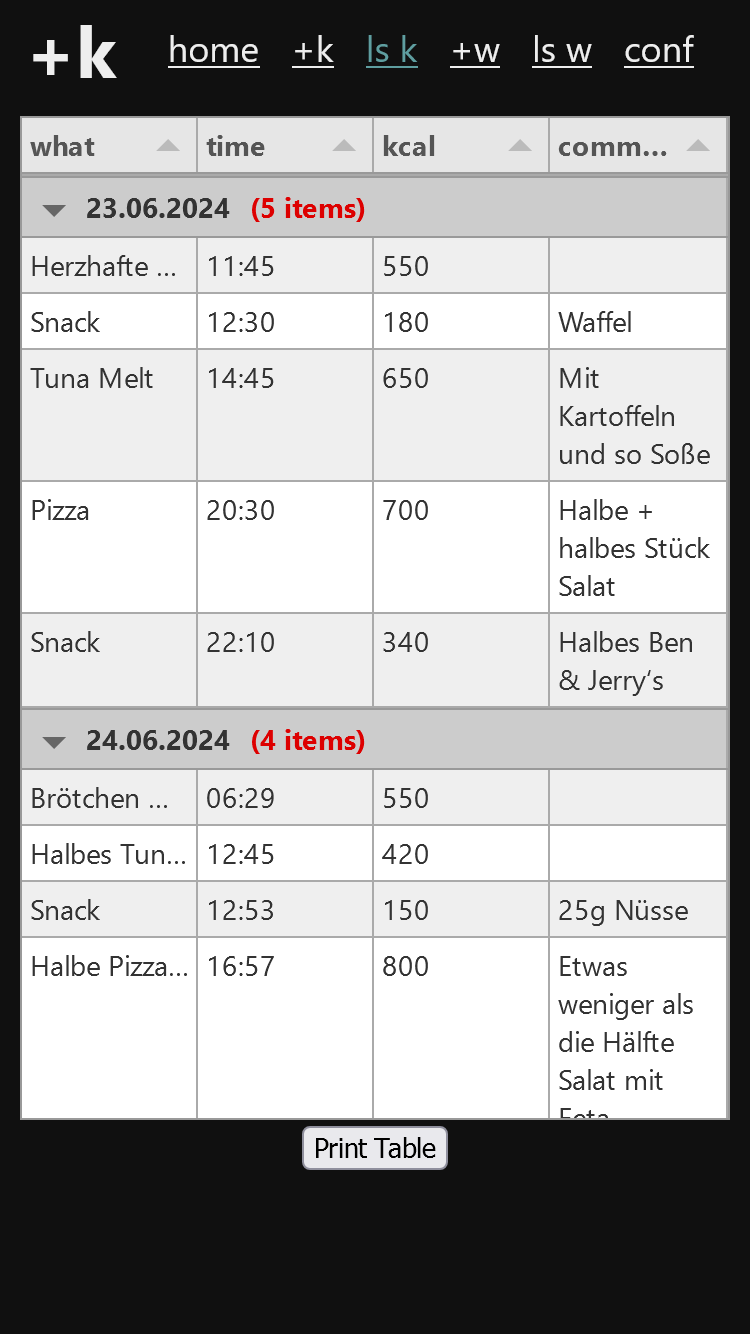
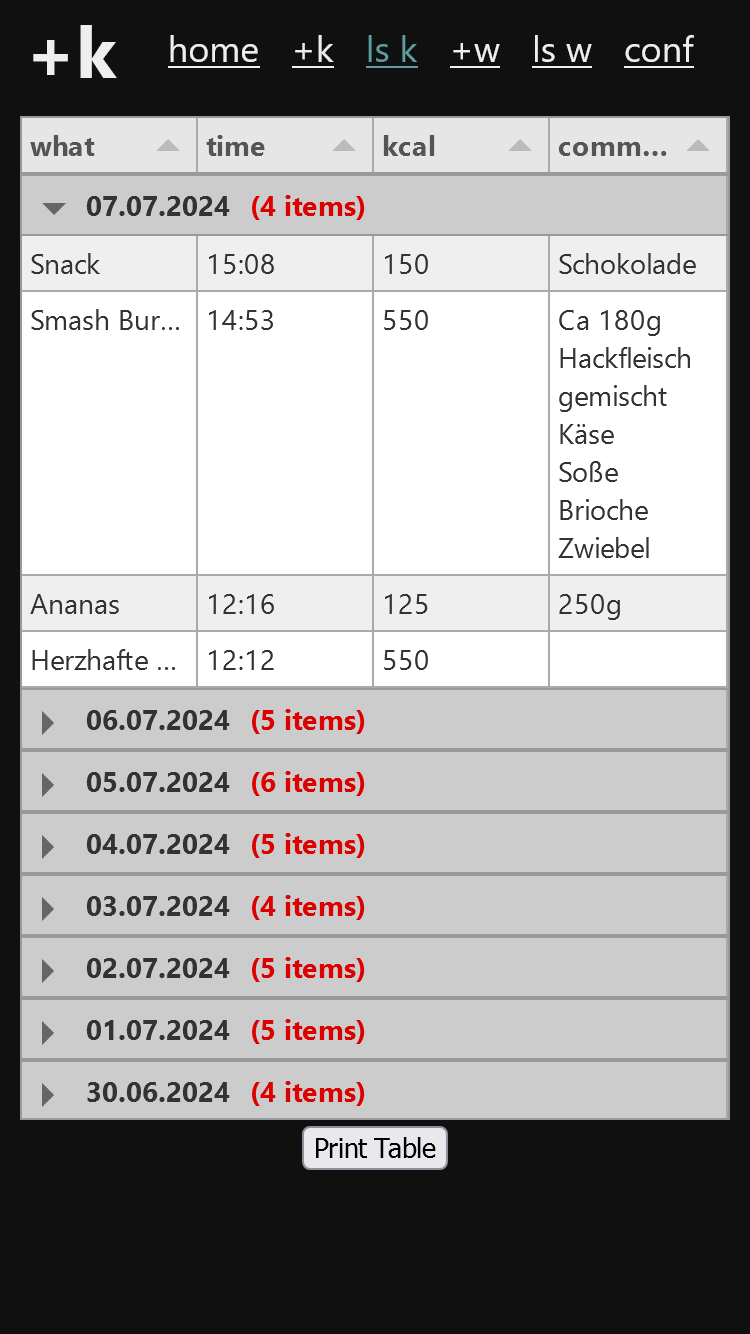
updated doc

diff --git a/readme.md b/readme.md
@@ -39,7 +39,8 @@ Additional calories can be entered.
     <img src="/docs/calories-input.png" width="300"/>
 </p>
 
-All entered calories can be viewed.
+All entered calories can be viewed, in descending order.
+Only today's date shows a detailed view of the entered data.
 
 <p align="center">
     <img src="/docs/calories-list.png" width="300"/>
